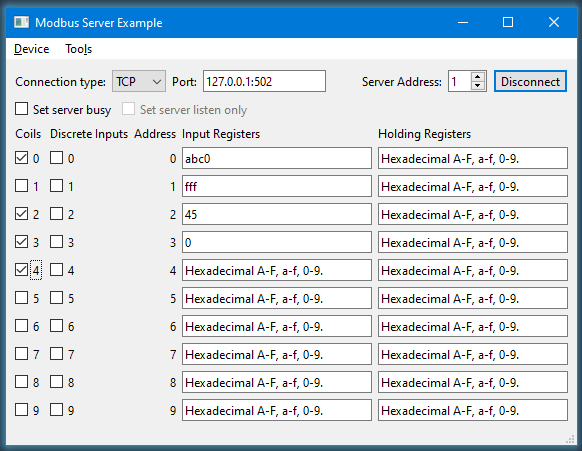
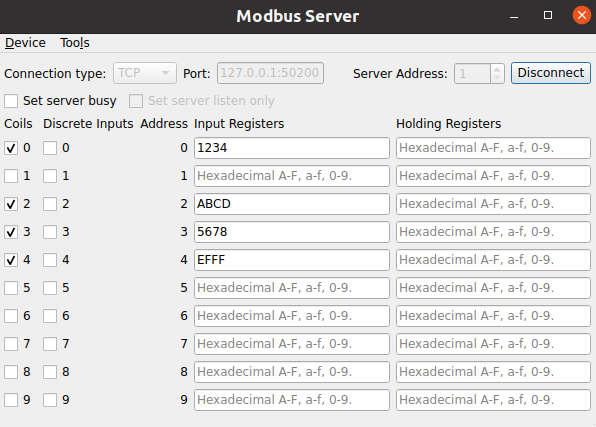
Modbus Server: update example description
Extend the example description so that it actually highlights the main
features shown in the example.

Also update the example to match the guidelines:
* Do not use Example in the name
* Update screenshot
* add Connectivity category

Task-number: QTBUG-110890
(cherry picked from commit e448b2b4d402c7ef4c8b06d16a8307e5219b115a)

diff --git a/examples/serialbus/modbus/server/mainwindow.cpp b/examples/serialbus/modbus/server/mainwindow.cpp
@@ -82,6 +82,7 @@ void MainWindow::onCurrentConnectTypeChanged(int index)
         modbusDevice = nullptr;
     }
 
+//! [create_server_0]
     auto type = static_cast<ModbusConnection>(index);
     if (type == Serial) {
 #if QT_CONFIG(modbus_serialport)
@@ -100,12 +101,14 @@ void MainWindow::onCurrentConnectTypeChanged(int index)
         if (currentUrl.port() <= 0)
             ui->portEdit->setText(QLatin1String("127.0.0.1:50200"));
     }
+//! [create_server_0]
     ui->listenOnlyBox->setEnabled(type == Serial);
 
     if (!modbusDevice) {
         ui->connectButton->setDisabled(true);
         statusBar()->showMessage(tr("Could not create Modbus server."), 5000);
     } else {
+//! [create_server_1]
         QModbusDataUnitMap reg;
         reg.insert(QModbusDataUnit::Coils, { QModbusDataUnit::Coils, 0, 10 });
         reg.insert(QModbusDataUnit::DiscreteInputs, { QModbusDataUnit::DiscreteInputs, 0, 10 });
@@ -113,9 +116,12 @@ void MainWindow::onCurrentConnectTypeChanged(int index)
         reg.insert(QModbusDataUnit::HoldingRegisters, { QModbusDataUnit::HoldingRegisters, 0, 10 });
 
         modbusDevice->setMap(reg);
+//! [create_server_1]
 
+//! [connect_data_written]
         connect(modbusDevice, &QModbusServer::dataWritten,
                 this, &MainWindow::updateWidgets);
+//! [connect_data_written]
         connect(modbusDevice, &QModbusServer::stateChanged,
                 this, &MainWindow::onStateChanged);
         connect(modbusDevice, &QModbusServer::errorOccurred,
@@ -151,6 +157,7 @@ void MainWindow::onConnectButtonClicked()
     statusBar()->clearMessage();
 
     if (intendToConnect) {
+//! [create_server_2]
         if (static_cast<ModbusConnection>(ui->connectType->currentIndex()) == Serial) {
             modbusDevice->setConnectionParameter(QModbusDevice::SerialPortNameParameter,
                 ui->portEdit->text());
@@ -170,6 +177,7 @@ void MainWindow::onConnectButtonClicked()
             modbusDevice->setConnectionParameter(QModbusDevice::NetworkAddressParameter, url.host());
         }
         modbusDevice->setServerAddress(ui->serverEdit->text().toInt());
+//! [create_server_2]
         if (!modbusDevice->connectDevice()) {
             statusBar()->showMessage(tr("Connect failed: ") + modbusDevice->errorString(), 5000);
         } else {
@@ -211,6 +219,7 @@ void MainWindow::discreteInputChanged(int id)
     bitChanged(id, QModbusDataUnit::DiscreteInputs, button->isChecked());
 }
 
+//! [update_data_locally]
 void MainWindow::bitChanged(int id, QModbusDataUnit::RegisterType table, bool value)
 {
     if (!modbusDevice)
@@ -244,7 +253,9 @@ void MainWindow::setRegister(const QString &value)
                                      5000);
     }
 }
+//! [update_data_locally]
 
+//! [update_data_from_remote]
 void MainWindow::updateWidgets(QModbusDataUnit::RegisterType table, int address, int size)
 {
     for (int i = 0; i < size; ++i) {
@@ -265,6 +276,7 @@ void MainWindow::updateWidgets(QModbusDataUnit::RegisterType table, int address,
         }
     }
 }
+//! [update_data_from_remote]
 
 // -- private
 
